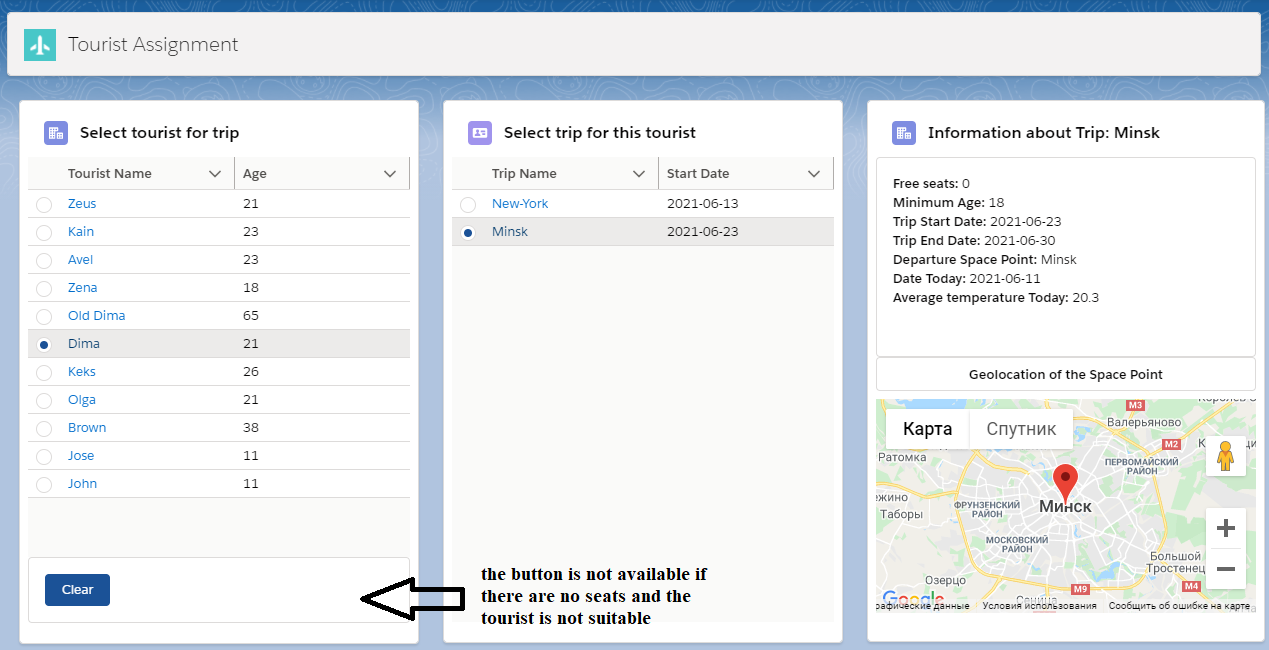
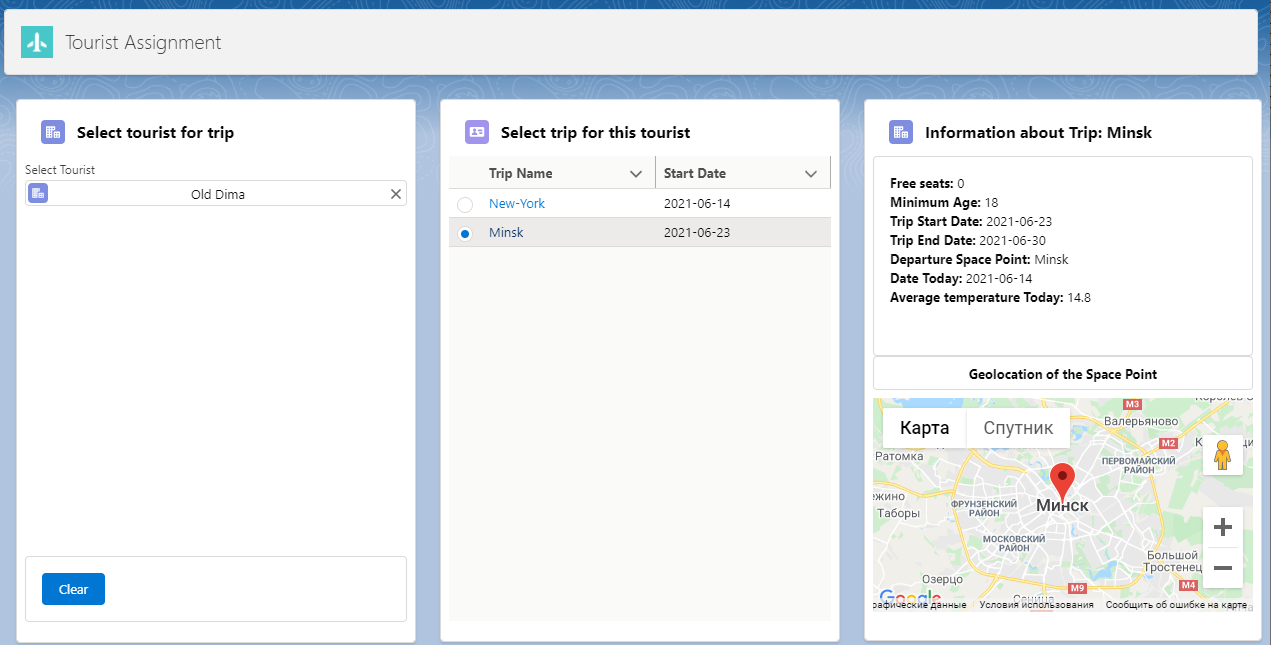
Added lookUp
Added lookUp

diff --git a/Lecture_3.4/Aura_Component/LookUP/customLookupController.js b/Lecture_3.4/Aura_Component/LookUP/customLookupController.js
@@ -1,0 +1,60 @@
+({
+    onfocus : function(component,event,helper){
+        $A.util.addClass(component.find("mySpinner"), "slds-show");
+        let forOpen = component.find("searchRes");
+        $A.util.addClass(forOpen, 'slds-is-open');
+        $A.util.removeClass(forOpen, 'slds-is-close');
+        let getInputkeyWord = '';
+        helper.searchHelper(component,event,getInputkeyWord);
+    },
+    
+    onblur : function(component,event,helper){       
+        component.set("v.listOfSearchRecords", null );
+        let forclose = component.find("searchRes");
+        $A.util.addClass(forclose, 'slds-is-close');
+        $A.util.removeClass(forclose, 'slds-is-open');
+    },
+    
+    keyPressController : function(component, event, helper) {
+        let getInputkeyWord = component.get("v.SearchKeyWord");
+        if( getInputkeyWord.length > 0 ){
+            let forOpen = component.find("searchRes");
+            $A.util.addClass(forOpen, 'slds-is-open');
+            $A.util.removeClass(forOpen, 'slds-is-close');
+            helper.searchHelper(component,event,getInputkeyWord);
+        }
+        else{  
+            component.set("v.listOfSearchRecords", null ); 
+            var forclose = component.find("searchRes");
+            $A.util.addClass(forclose, 'slds-is-close');
+            $A.util.removeClass(forclose, 'slds-is-open');
+        }
+    },
+    
+    clear :function(component,event,heplper){
+        let pillTarget = component.find("lookup-pill");
+        let lookUpTarget = component.find("lookupField"); 
+        $A.util.addClass(pillTarget, 'slds-hide');
+        $A.util.removeClass(pillTarget, 'slds-show');
+        $A.util.addClass(lookUpTarget, 'slds-show');
+        $A.util.removeClass(lookUpTarget, 'slds-hide');
+        component.set("v.SearchKeyWord",null);
+        component.set("v.listOfSearchRecords", null );
+        component.set("v.selectedRecord", {} );   
+    },
+    
+    
+    handleComponentEvent : function(component, event, helper) {
+        let selectedAccountGetFromEvent = event.getParam("recordByEvent");
+        component.set("v.selectedRecord" , selectedAccountGetFromEvent); 
+        var forclose = component.find("lookup-pill");
+        $A.util.addClass(forclose, 'slds-show');
+        $A.util.removeClass(forclose, 'slds-hide');
+        var forclose = component.find("searchRes");
+        $A.util.addClass(forclose, 'slds-is-close');
+        $A.util.removeClass(forclose, 'slds-is-open');
+        let lookUpTarget = component.find("lookupField");
+        $A.util.addClass(lookUpTarget, 'slds-hide');
+        $A.util.removeClass(lookUpTarget, 'slds-show');  
+    }
+})

diff --git a/Lecture_3.4/Aura_Component/LookUP/customLookupHelper.js b/Lecture_3.4/Aura_Component/LookUP/customLookupHelper.js
@@ -1,0 +1,23 @@
+({
+    searchHelper : function(component,event,getInputkeyWord) {
+        let action = component.get("c.fetchLookUpValues");
+        action.setParams({
+            'searchKeyWord': getInputkeyWord,
+            'ObjectName' : component.get("v.objectAPIName")
+        });
+        action.setCallback(this, function(response) {
+            $A.util.removeClass(component.find("mySpinner"), "slds-show");
+            let state = response.getState();
+            if (state === "SUCCESS") {
+                let storeResponse = response.getReturnValue();
+                if (storeResponse.length == 0) {
+                    component.set("v.Message", 'No Result Found...');
+                } else {
+                    component.set("v.Message", '');
+                }
+                component.set("v.listOfSearchRecords", storeResponse);
+            }
+        }); 
+        $A.enqueueAction(action);
+    }
+})

diff --git a/Lecture_3.4/Aura_Component/LookUP/customLookupResultController.js b/Lecture_3.4/Aura_Component/LookUP/customLookupResultController.js
@@ -1,0 +1,8 @@
+({
+    selectRecord : function(component, event, helper){      
+        let getSelectRecord = component.get("v.oRecord");
+        let compEvent = component.getEvent("oSelectedRecordEvent");
+        compEvent.setParams({"recordByEvent" : getSelectRecord });  
+        compEvent.fire();
+    },
+})

diff --git a/Lecture_3.4/Aura_Component/LookUP/customLookup.CSS b/Lecture_3.4/Aura_Component/LookUP/customLookup.CSS
@@ -1,0 +1,7 @@
+.THIS .leftPaddingClass {
+    padding-left: 2rem;
+}
+ 
+.THIS .pillSize{
+ width:100%;
+}
